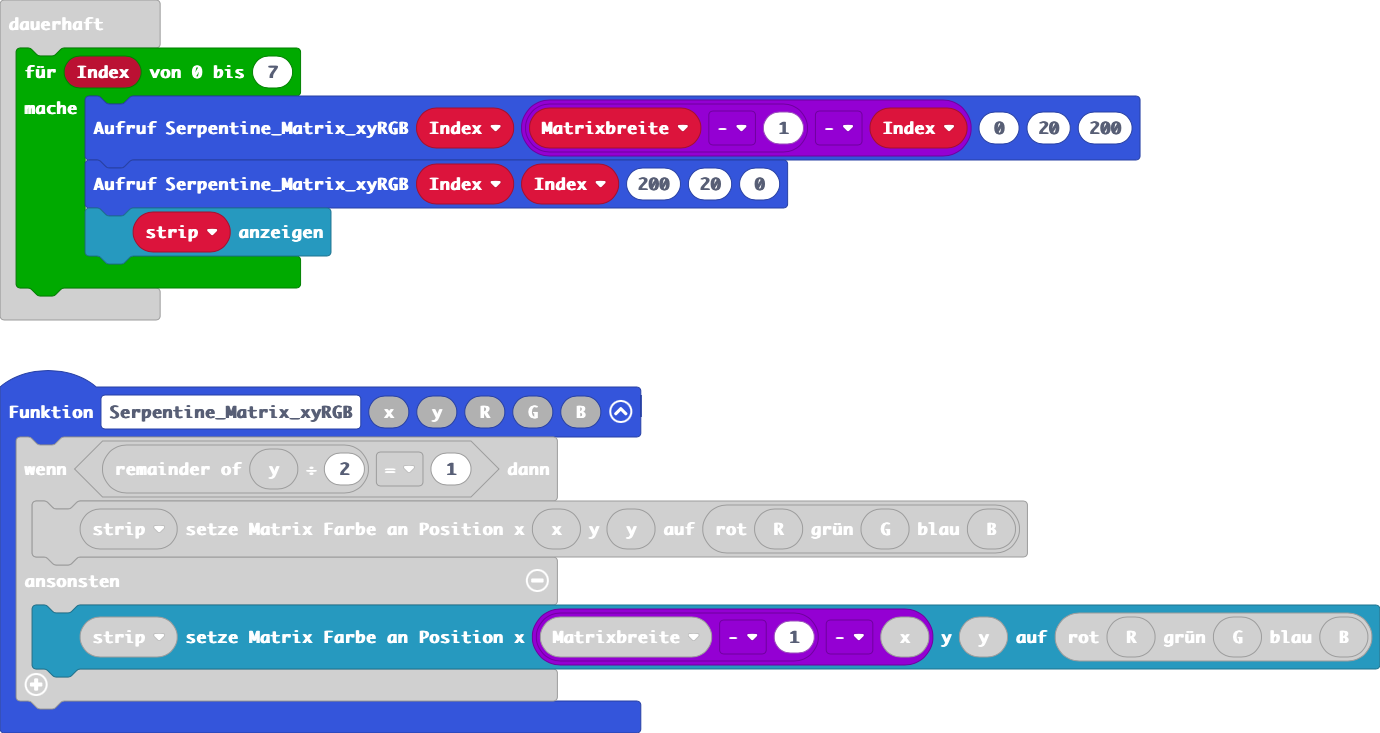
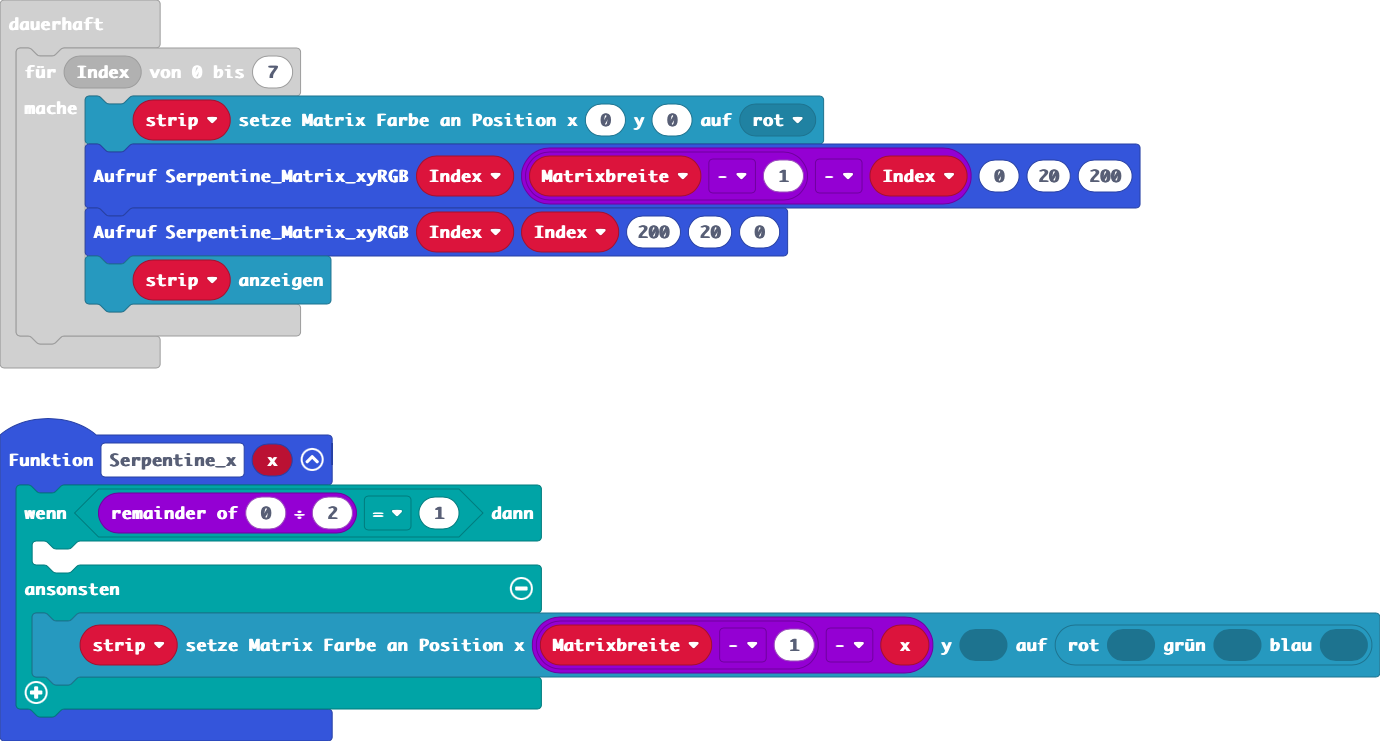
added x

diff --git a/main.ts b/main.ts
@@ -1,3 +1,10 @@
+function Serpentine_x (x: number) {
+    if (0 % 2 == 1) {
+    	
+    } else {
+        strip.setMatrixColor(Matrixbreite - 1 - x, 0, neopixel.rgb(0, 0, 0))
+    }
+}
 function Serpentine_Matrix_xyRGB (x: number, y: number, R: number, G: number, B: number) {
     if (y % 2 == 1) {
         strip.setMatrixColor(x, y, neopixel.rgb(R, G, B))
@@ -12,6 +19,7 @@ strip = neopixel.create(DigitalPin.P0, 64, NeoPixelMode.RGB)
 strip.setMatrixWidth(Matrixbreite)
 basic.forever(function () {
     for (let Index = 0; Index <= 7; Index++) {
+        strip.setMatrixColor(0, 0, neopixel.colors(NeoPixelColors.Red))
         Serpentine_Matrix_xyRGB(Index, Matrixbreite - 1 - Index, 0, 20, 200)
         Serpentine_Matrix_xyRGB(Index, Index, 200, 20, 0)
         strip.show()
